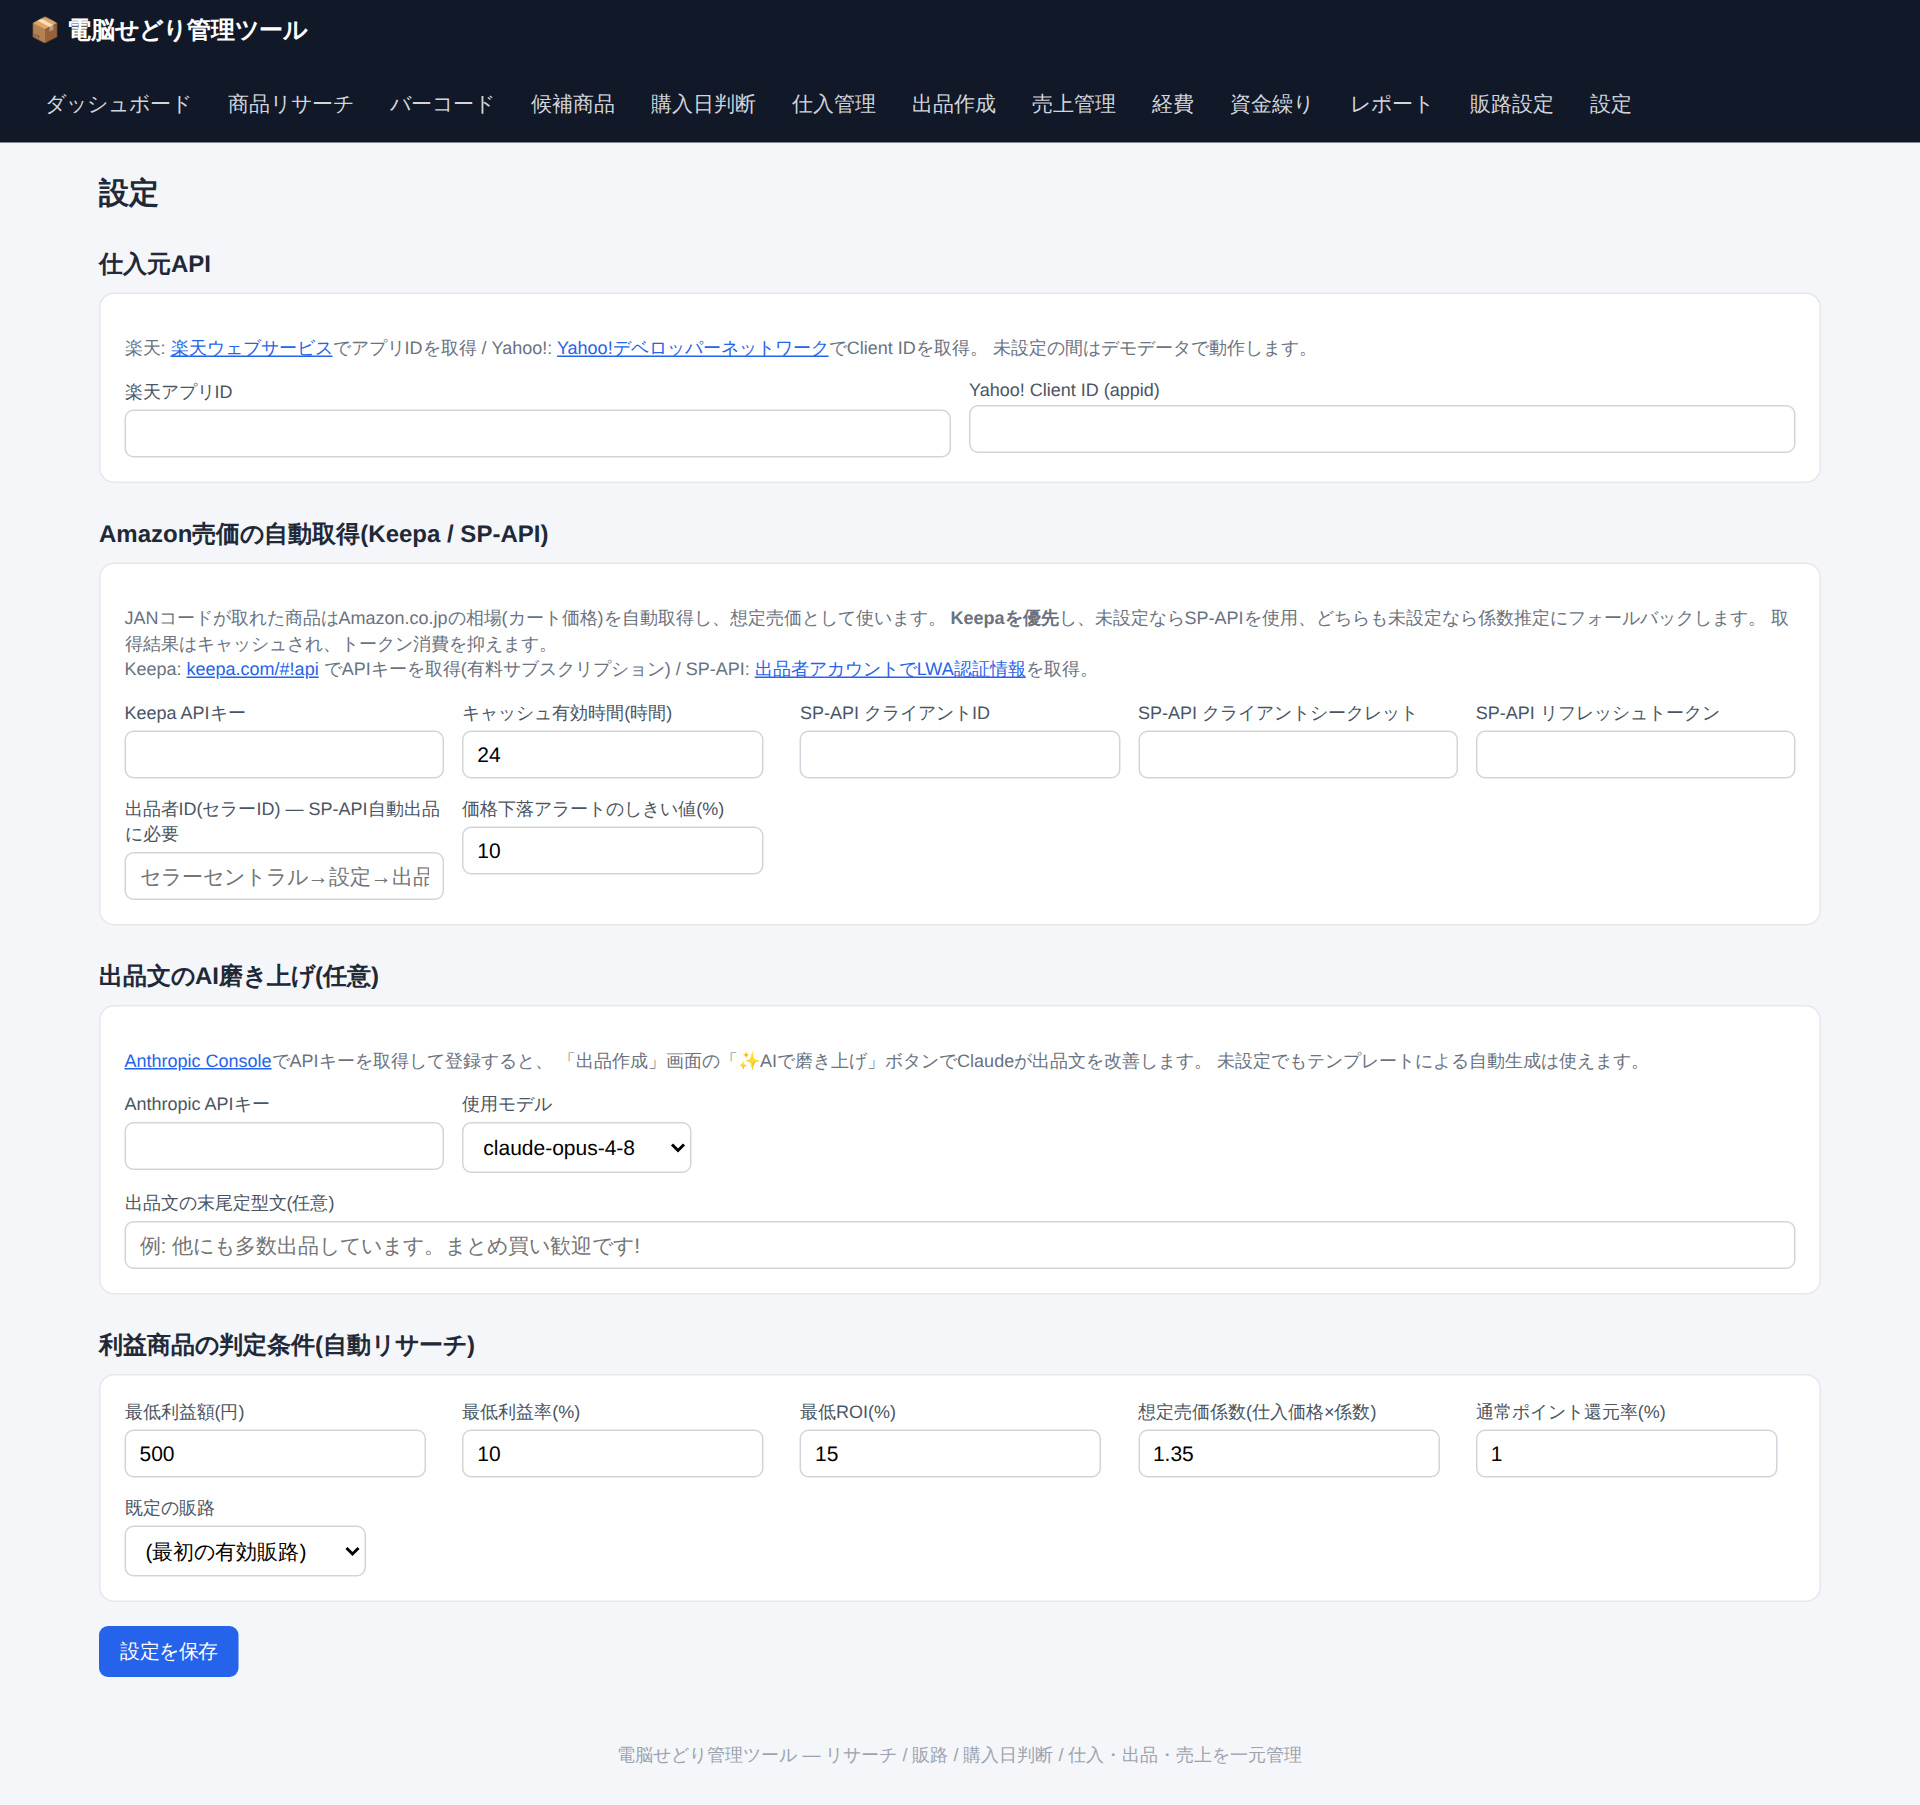
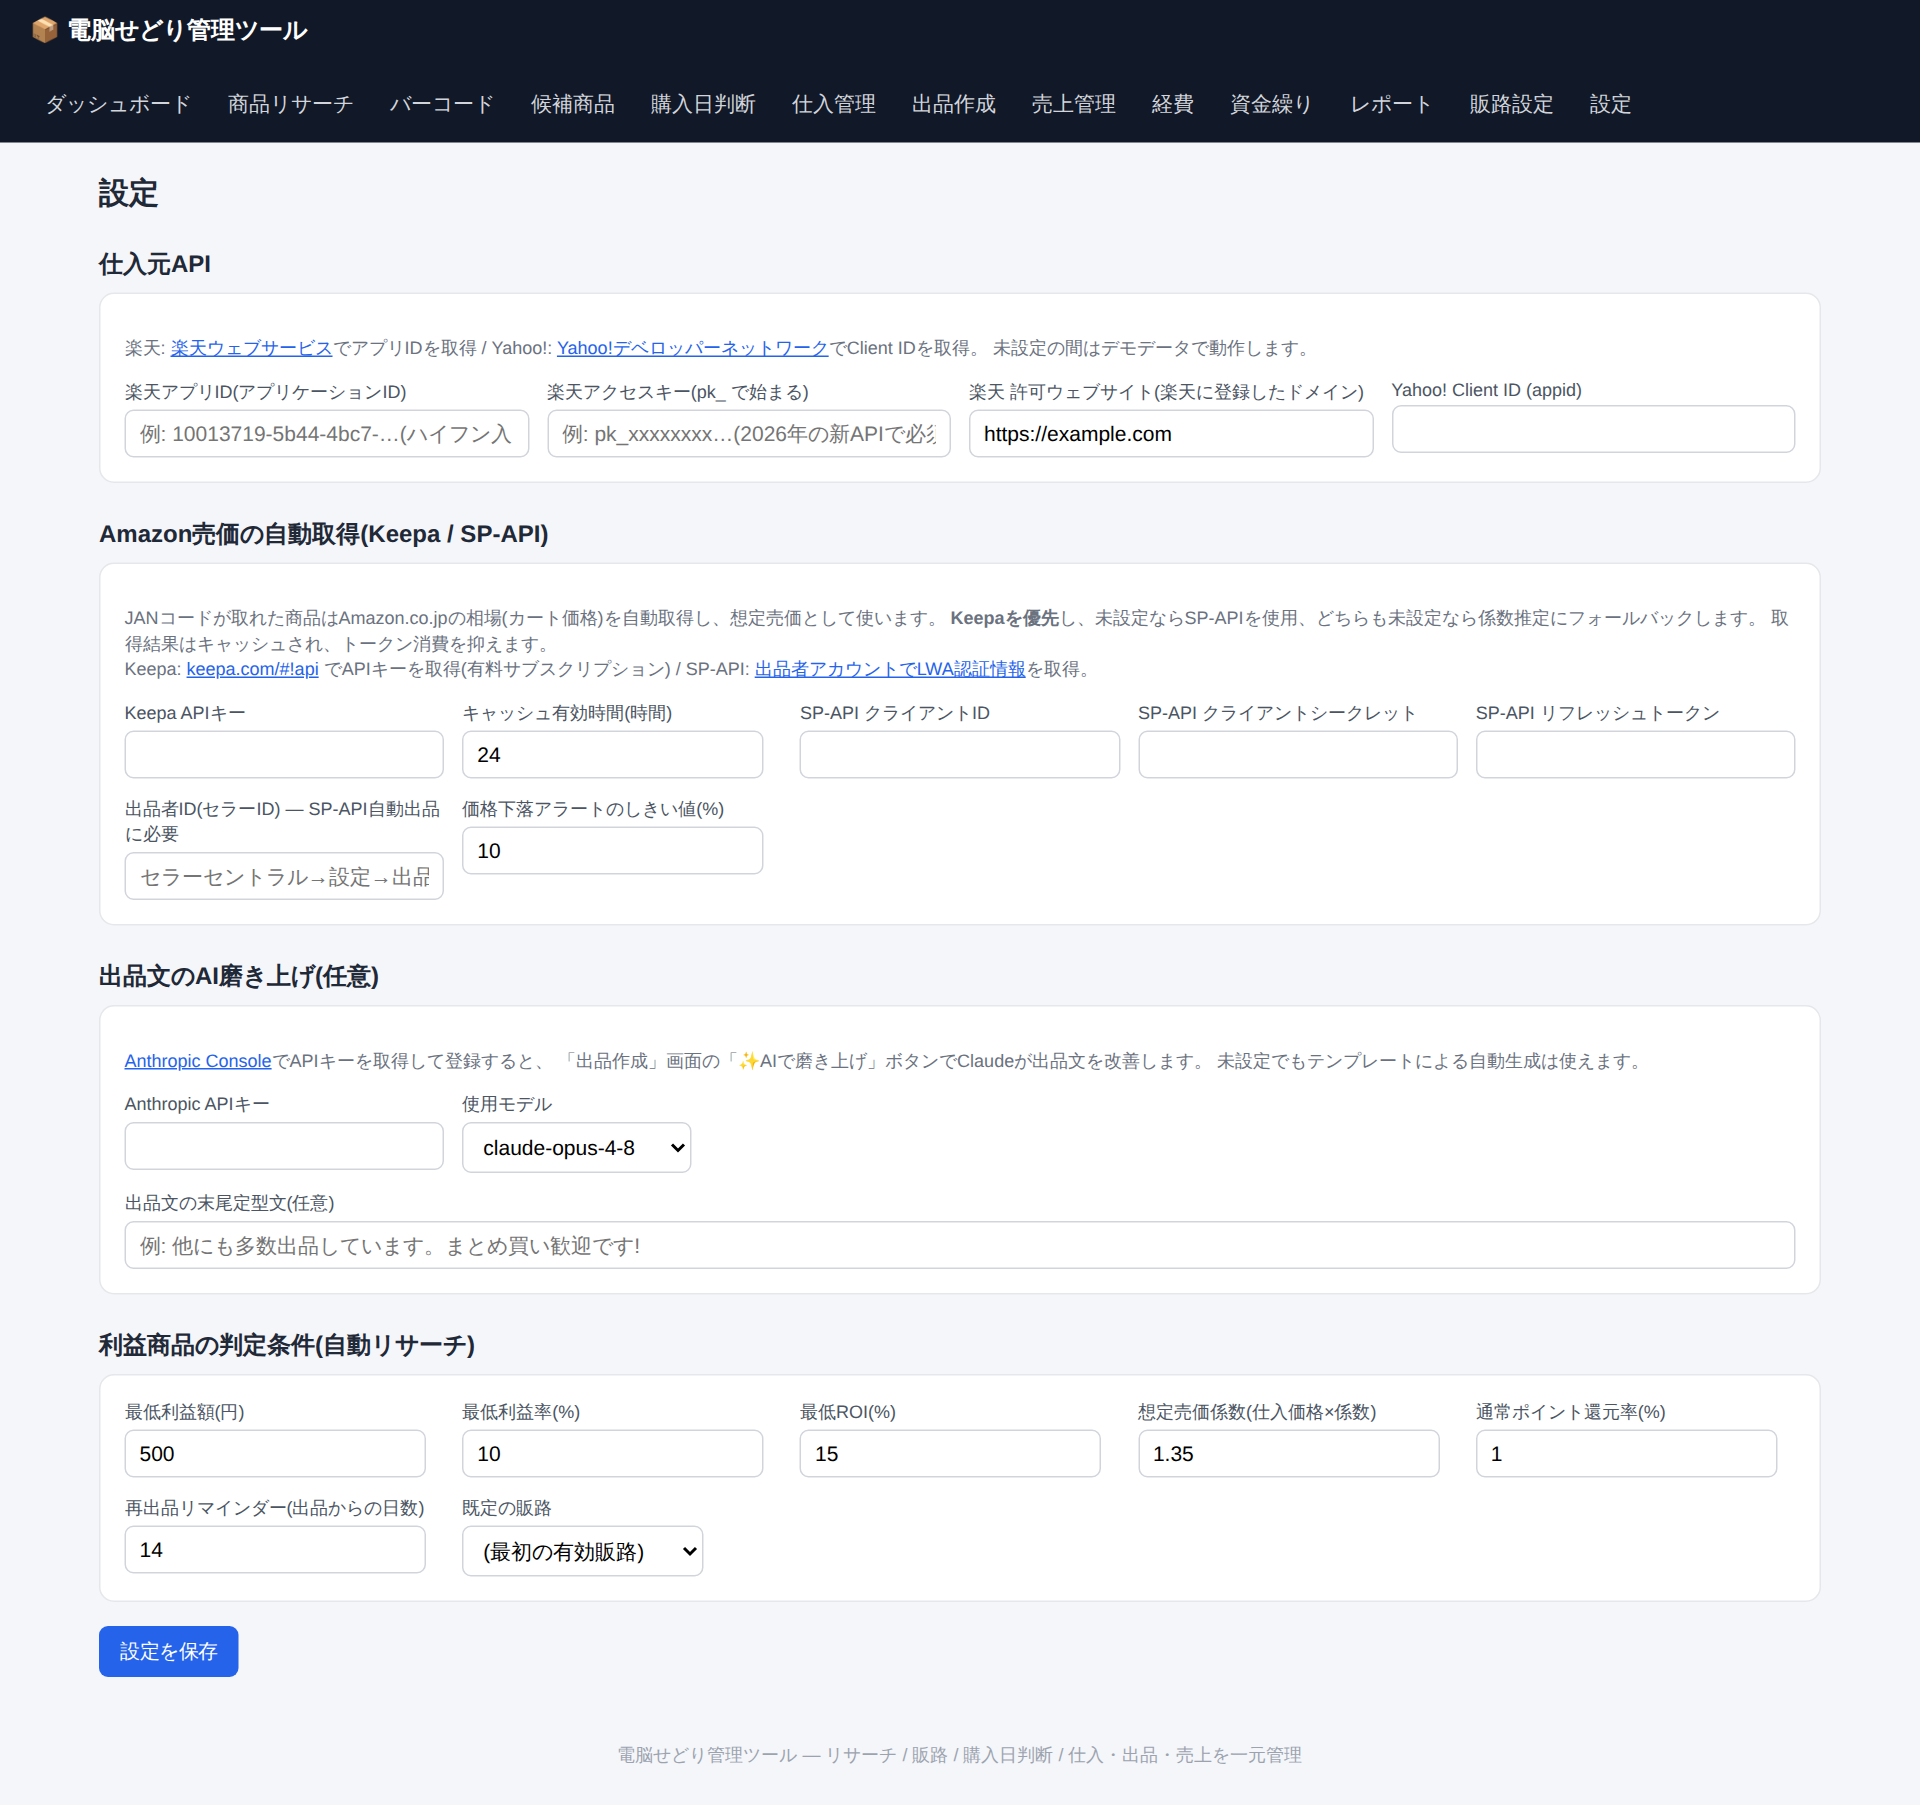
楽天APIの2026年刷新(旧API停止)に対応
- 旧エンドポイント app.rakuten.co.jp は2026年5月13日に停止されたため、
  新エンドポイント openapi.rakuten.co.jp/ichibams/api へ移行
  (新バージョン20260401→旧20220601の順に自動フォールバック)
- 新認証方式に対応: applicationId(UUID形式)+accessKey(pk_...)の2キー、
  および「許可されたウェブサイト」に登録したドメインをOrigin/Refererで送信
- 設定画面に「楽天アクセスキー」「楽天 許可ウェブサイト」欄を追加
- エラー時のヒントを充実(400=キー誤り、401/403=許可サイト不一致、429=レート制限)
- 自動リサーチの連続実行に1.5秒間隔を追加(429対策)
- APIガイドを新コンソールの画面(QPS・スコープ・許可ウェブサイト)に合わせて全面改訂
- 楽天新APIクライアント構成の単体テストを追加

https://claude.ai/code/session_011QubhnUnC7rXQySvuSRaCz

diff --git a/sedori/templates/settings.html b/sedori/templates/settings.html
@@ -12,8 +12,15 @@
       未設定の間はデモデータで動作します。
     </p>
     <div class="form-grid">
-      <div><label>楽天アプリID</label>
-        <input name="rakuten_app_id" value="{{ settings.rakuten_app_id }}" style="width:100%"></div>
+      <div><label>楽天アプリID(アプリケーションID)</label>
+        <input name="rakuten_app_id" value="{{ settings.rakuten_app_id }}" style="width:100%"
+               placeholder="例: 10013719-5b44-4bc7-…(ハイフン入り英数字)"></div>
+      <div><label>楽天アクセスキー(pk_ で始まる)</label>
+        <input name="rakuten_access_key" value="{{ settings.rakuten_access_key }}" style="width:100%"
+               placeholder="例: pk_xxxxxxxx…(2026年の新APIで必須)"></div>
+      <div><label>楽天 許可ウェブサイト(楽天に登録したドメイン)</label>
+        <input name="rakuten_allowed_site" value="{{ settings.rakuten_allowed_site }}" style="width:100%"
+               placeholder="例: https://example.com"></div>
       <div><label>Yahoo! Client ID (appid)</label>
         <input name="yahoo_app_id" value="{{ settings.yahoo_app_id }}" style="width:100%"></div>
     </div>

diff --git a/sedori/sources.py b/sedori/sources.py
@@ -19,10 +19,22 @@ class SourceError(Exception):
 class RakutenSource:
     name = "rakuten"
     label = "楽天市場"
-    URL = "https://app.rakuten.co.jp/services/api/IchibaItem/Search/20220601"
+    # 2026年2月のAPI刷新後のエンドポイント(新バージョン→旧バージョンの順に試行)
+    URLS = [
+        "https://openapi.rakuten.co.jp/ichibams/api/IchibaItem/Search/20260401",
+        "https://openapi.rakuten.co.jp/ichibams/api/IchibaItem/Search/20220601",
+    ]
 
-    def __init__(self, app_id):
+    def __init__(self, app_id, access_key="", allowed_site=""):
         self.app_id = app_id
+        self.access_key = (access_key or "").strip()
+        site = (allowed_site or "https://example.com").strip().rstrip("/")
+        if not site.startswith("http"):
+            site = "https://" + site
+        # 新APIは「許可されたウェブサイト」に登録したドメインを
+        # Origin/Refererヘッダーで名乗る必要がある
+        self.origin = site
+        self.referer = site + "/"
 
     def search(self, keyword, limit=20, max_price=0):
         params = {
@@ -32,27 +44,54 @@ class RakutenSource:
             "sort": "+itemPrice",
             "availability": 1,
         }
+        if self.access_key:
+            params["accessKey"] = self.access_key
         if max_price:
             params["maxPrice"] = max_price
-        try:
-            res = requests.get(self.URL, params=params, timeout=TIMEOUT)
-            res.raise_for_status()
-            data = res.json()
-        except (requests.RequestException, ValueError) as e:
-            raise SourceError(f"楽天API エラー: {e}")
-        items = []
-        for wrap in data.get("Items", []):
-            it = wrap.get("Item", wrap)
-            items.append({
-                "name": it.get("itemName", ""),
-                "price": int(it.get("itemPrice", 0)),
-                "url": it.get("itemUrl", ""),
-                "shop": it.get("shopName", ""),
-                "jan": "",
-                "source": self.name,
-                "point_rate": float(it.get("pointRate", 1)),
-            })
-        return items
+        headers = {
+            "Referer": self.referer,
+            "Origin": self.origin,
+            "User-Agent": "Mozilla/5.0 (sedori-tool)",
+        }
+        last_err = ""
+        for url in self.URLS:
+            try:
+                res = requests.get(url, params=params, headers=headers, timeout=TIMEOUT)
+            except requests.RequestException as e:
+                raise SourceError(f"楽天API エラー: {e}")
+            if res.status_code == 404:
+                last_err = "エンドポイントが見つかりません"
+                continue  # 旧バージョンのパスを試す
+            try:
+                data = res.json()
+            except ValueError:
+                raise SourceError(f"楽天API エラー: 応答を解析できません({res.status_code})")
+            if res.status_code != 200:
+                detail = (data.get("error_description") or data.get("error")
+                          or f"HTTP {res.status_code}")
+                if res.status_code in (401, 403):
+                    hint = "(設定の「楽天アクセスキー(pk_...)」と「楽天 許可ウェブサイト」が、楽天に登録した内容と一致しているか確認してください)"
+                elif res.status_code == 400:
+                    hint = "(楽天アプリIDとアクセスキーの貼り間違い・空白混入がないか確認してください)"
+                elif res.status_code == 429:
+                    hint = "(リクエストが多すぎます。少し待ってから再実行してください)"
+                else:
+                    hint = ""
+                raise SourceError(f"楽天API エラー: {detail} {hint}")
+            items = []
+            for wrap in data.get("Items", []):
+                it = wrap.get("Item", wrap) if isinstance(wrap, dict) else wrap
+                items.append({
+                    "name": it.get("itemName", ""),
+                    "price": int(it.get("itemPrice", 0)),
+                    "url": it.get("itemUrl", ""),
+                    "shop": it.get("shopName", ""),
+                    "jan": "",
+                    "source": self.name,
+                    "point_rate": float(it.get("pointRate", 1) or 1),
+                })
+            return items
+        raise SourceError(f"楽天API エラー: {last_err}")
 
 
 class YahooSource:
@@ -129,7 +168,11 @@ def build_sources(settings):
     """設定からアクティブなソース一覧を構築する。APIキーが1つもなければデモのみ。"""
     sources = []
     if settings.get("rakuten_app_id"):
-        sources.append(RakutenSource(settings["rakuten_app_id"]))
+        sources.append(RakutenSource(
+            settings["rakuten_app_id"],
+            settings.get("rakuten_access_key", ""),
+            settings.get("rakuten_allowed_site", ""),
+        ))
     if settings.get("yahoo_app_id"):
         sources.append(YahooSource(settings["yahoo_app_id"]))
     if not sources:

diff --git a/test_smoke.py b/test_smoke.py
@@ -32,6 +32,15 @@ def test_listing_logic():
     assert "Nintendo" in kw and "新品" in kw
     print("  OK キーワード抽出:", kw)
 
+    # 楽天 新API(2026年刷新)のクライアント構成
+    from sedori.sources import RakutenSource
+    r = RakutenSource("uuid-app-id", "pk_testkey", "example.com")
+    assert r.origin == "https://example.com" and r.referer == "https://example.com/"
+    assert r.URLS[0].startswith("https://openapi.rakuten.co.jp/ichibams/api/")
+    r2 = RakutenSource("uuid-app-id")  # 許可サイト未設定時の既定値
+    assert r2.origin == "https://example.com"
+    print("  OK 楽天新API: Origin/Refererと新エンドポイント構成")
+
 
 def test_amazon_parsers():
     print("Amazon応答パース:")

diff --git a/sedori/research.py b/sedori/research.py
@@ -4,6 +4,8 @@
 販路手数料から利益を試算。しきい値(最低利益額・利益率・ROI)を超える商品を
 利益商品として抽出する。
 """
+import time
+
 from . import amazon
 from . import db as dbm
 from . import profit, timing
@@ -87,7 +89,10 @@ def run_auto(settings, channel):
         "SELECT * FROM saved_searches WHERE enabled=1 ORDER BY id"
     ).fetchall()
     added, scanned, all_errors = 0, 0, []
-    for s in searches:
+    real_api = bool(settings.get("rakuten_app_id") or settings.get("yahoo_app_id"))
+    for i, s in enumerate(searches):
+        if real_api and i > 0:
+            time.sleep(1.5)  # 連続リクエストによる429(レート制限)を防ぐ
         items, errors = search(s["keyword"], settings, channel, limit=20, max_price=s["max_price"])
         all_errors.extend(errors)
         scanned += len(items)

diff --git a/sedori/db.py b/sedori/db.py
@@ -146,6 +146,8 @@ DEFAULT_CHANNELS = [
 
 DEFAULT_SETTINGS = {
     "rakuten_app_id": "",
+    "rakuten_access_key": "",       # 新楽天API(2026年〜)のアクセスキー(pk_...)
+    "rakuten_allowed_site": "https://example.com",  # 楽天に登録した「許可されたウェブサイト」
     "yahoo_app_id": "",
     "min_profit": "500",            # 自動リサーチ: 最低利益額(円)
     "min_profit_rate": "10",        # 最低利益率(%)

diff --git a/docs/API_GUIDE.md b/docs/API_GUIDE.md
@@ -18,39 +18,46 @@
 
 ---
 
-## Part 1: 楽天アプリIDの発行(5分)
+## Part 1: 楽天のキー発行(5〜10分)
 
-### STEP 1: サイトを開く
+> 📌 楽天のAPIは**2026年2月に全面リニューアル**されました。現在は
+> 「**アプリケーションID(ハイフン入りの英数字)**」と「**アクセスキー(pk_で始まる文字列)**」の
+> **2つセット**で使う方式です。古い解説記事(20桁の数字のアプリID)とは画面が違うので注意してください。
 
-ブラウザで **[webservice.rakuten.co.jp](https://webservice.rakuten.co.jp/)**(楽天ウェブサービス)を開きます。
+### STEP 1: サイトを開いてログイン
 
-### STEP 2: 「アプリID発行」を押す
+ブラウザで **[webservice.rakuten.co.jp](https://webservice.rakuten.co.jp/)**(楽天ウェブサービス/Rakuten Developers)を開き、
+右上からログインします(普段楽天市場で使っているIDでOK)。
+画面が英語の場合は言語切替で日本語にできます。
 
-ページの**右上**にある「**アプリID発行**」というボタンをクリックします。
+### STEP 2: 新規アプリを作成
 
-### STEP 3: 楽天会員でログイン
+右上の「**+ アプリID発行**」(英語表示なら「**+ New App**」)をクリックします。
 
-楽天のログイン画面が出るので、普段楽天市場で使っているID(メールアドレス)とパスワードでログインします。
+### STEP 3: フォームを入力
 
-### STEP 4: アプリ情報を入力
-
-「新規アプリ登録」というフォームが表示されます。入力するのは2ヶ所だけです。
-
-| 入力欄 | 入力する内容 |
+| 項目 | 入力・選択する内容 |
 | --- | --- |
 | アプリ名 | 好きな名前でOK(例: `せどり管理ツール`) |
-| アプリURL | `http://127.0.0.1:5050` と入力(自分のパソコンで動かすツールなのでこれでOK。審査はありません) |
+| 必要とされるQPS(1秒あたりの必要量) | `1`(個人利用では十分です) |
+| APIアクセススコープ | 「**楽天市場API**(製品検索と情報へのアクセス)」**だけ**にチェック |
+| 許可されたウェブサイト | `example.com` と入力(⚠️この欄はドメイン形式しか受け付けません。`http://`や`:5050`付きは弾かれます) |
 
-画像認証(表示された文字の入力)がある場合は入力し、
-「**規約に同意して新規アプリを作成**」ボタンを押します。
+入力したら規約に同意して作成ボタンを押します。
 
-### STEP 5: 発行されたIDをコピー
+### STEP 4: 発行された2つのキーをコピー
 
-完了画面に表示される「**アプリID/デベロッパーID**」という**20桁ほどの数字**が目的のキーです。
-ドラッグして右クリック→コピーしてください。
+完了画面(またはアプリ詳細画面)に表示される次の**2つ**をコピーします。
 
-> 💡 同じ画面に「アプリシークレット」「アフィリエイトID」も表示されますが、**今回は使いません**。
-> 後からIDを確認したいときは、楽天ウェブサービスの「アプリ情報の確認」ページで見られます。
+| 名前 | 形式の例 | ツールのどこに貼るか |
+| --- | --- | --- |
+| アプリケーションID | `10013719-5b44-4bc7-…`(ハイフン入り英数字) | 設定 →「楽天アプリID」 |
+| アクセスキー | `pk_xxxxxxxxxxxx…`(pk_で始まる) | 設定 →「楽天アクセスキー」 |
+
+> 💡 「アフィリエイトID」も表示されますが今回は使いません。
+> ⚠️ ツールの設定にある「**楽天 許可ウェブサイト**」は、STEP 3で登録したドメインと
+> 同じもの(`https://example.com`)にしてください(初期値のままでOKです)。
+> 楽天側に別のドメインを登録した場合だけ、それに合わせて書き換えます。
 
 ---
 
@@ -102,7 +109,9 @@
 
 | 欄 | 貼り付けるもの |
 | --- | --- |
-| 楽天アプリID | Part 1でコピーした**20桁ほどの数字** |
+| 楽天アプリID(アプリケーションID) | Part 1の**ハイフン入り英数字のID** |
+| 楽天アクセスキー | Part 1の**pk_ で始まる文字列** |
+| 楽天 許可ウェブサイト | 楽天に登録したドメイン(`https://example.com` のままでOK) |
 | Yahoo! Client ID (appid) | Part 2でコピーした**dj00…で始まる長い文字列** |
 
 3. ページ下の「**設定を保存**」を押す
@@ -120,7 +129,9 @@
 
 | 症状 | 原因と対処 |
 | --- | --- |
-| 楽天の登録でアプリURLに何を入れるか分からない | `http://127.0.0.1:5050` でOK。審査はなく、すぐ発行されます |
+| 楽天の「許可されたウェブサイト」が何度も弾かれる | ドメインだけを入力します(`example.com`)。URL形式(`http://〜`)やポート番号付きはエラーになります |
+| 楽天で「400エラー」が出る | アプリIDかアクセスキーの貼り間違い・空白混入。**2つともセットで必要**です(片方だけでは動きません) |
+| 楽天で「401/403エラー」が出る | ツール設定の「楽天 許可ウェブサイト」が、楽天に登録したドメインと一致していません。同じものにしてください |
 | Yahoo!でどのキーを使うか分からない | 使うのは「**Client ID**」だけ。「シークレット」は使いません |
-| 貼り付けたのにデモデータのまま | 「設定を保存」の押し忘れ、またはキーの前後の空白。どちらかのキーだけでも動きます(入れた方のモールだけ検索されます) |
+| 貼り付けたのにデモデータのまま | 「設定を保存」の押し忘れ、またはキーの前後の空白。楽天・Yahoo!どちらか一方だけでも動きます(入れた方のモールだけ検索されます) |
 | 発行してすぐ使える? | はい。楽天・Yahoo!とも発行直後から使えます |